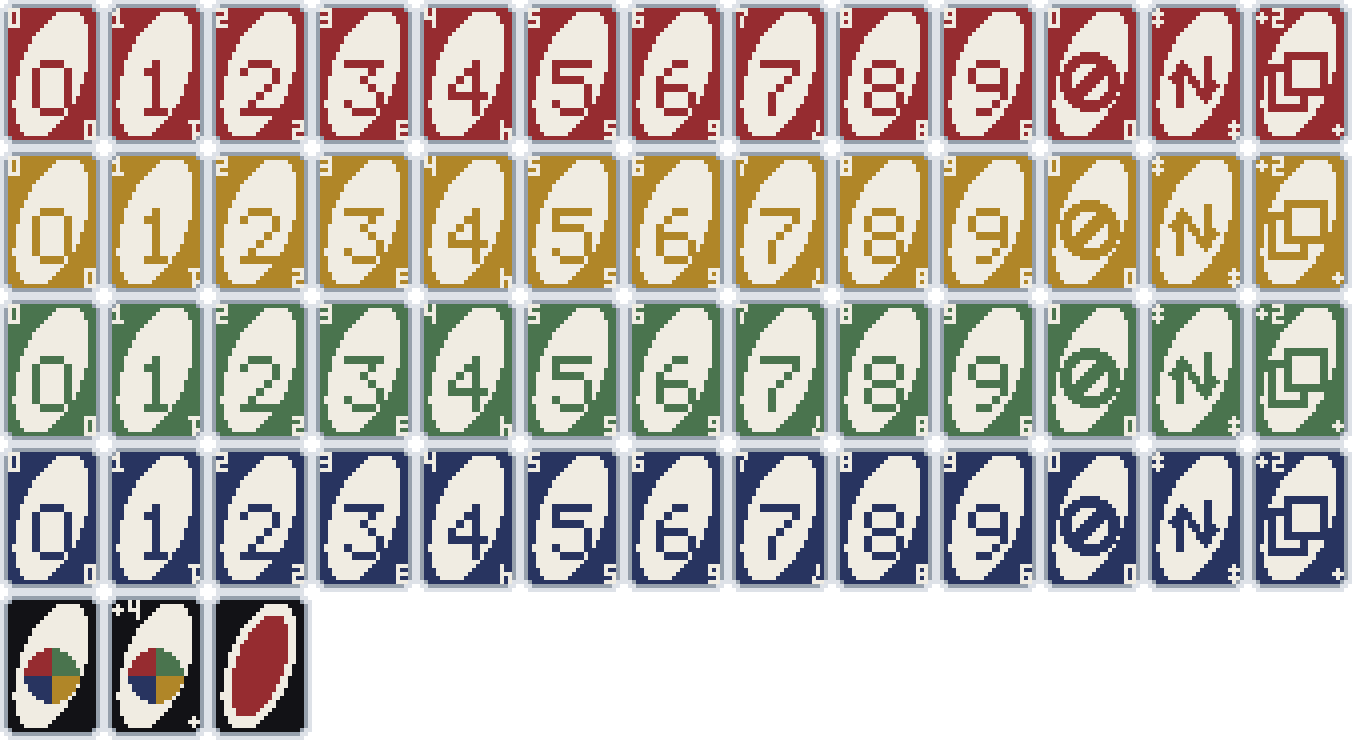
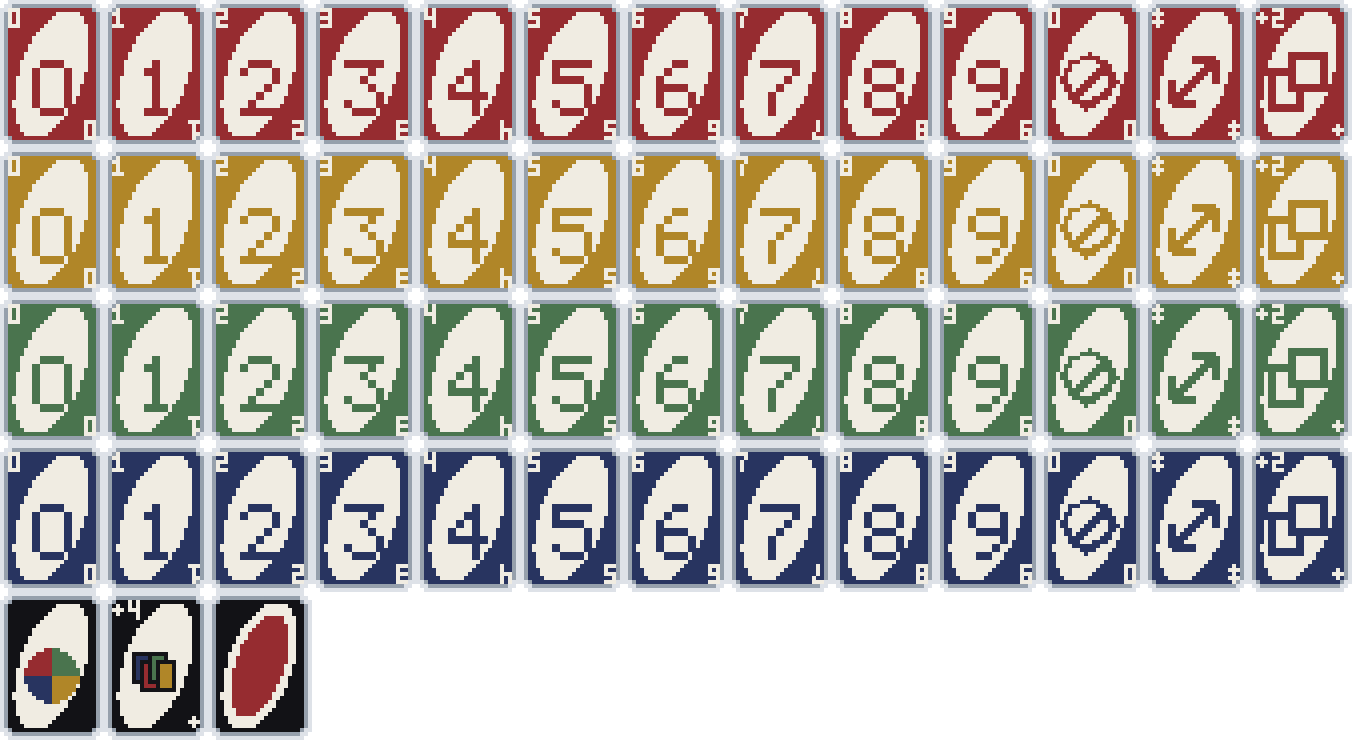
Take the symbols from the reference properly
The legend along the bottom of the reference sheet is the part of it that
was worth reading, and three of the symbols were wrong against it.

Skip is an octagon rather than a circle - it is a stop sign, and at this
size the flat top edge is most of what separates the two. Reverse is one
arrow with a head at each end instead of two side by side, which is the
honest fix for the thing that was reading as a letter N. And the Wild
Draw Four is four little cards fanned out rather than another quartered
circle, so it no longer looks like the plain Wild with a number on it.

diff --git a/scripts/build-uno-sheet.py b/scripts/build-uno-sheet.py
@@ -125,24 +125,37 @@ def symbol_mask(kind):
     d = ImageDraw.Draw(m)
 
     if kind == "skip":
-        d.ellipse([0, 0, SYM - 1, SYM - 1], outline=255, width=3)
-        d.line([3, SYM - 4, SYM - 4, 3], fill=255, width=3)
+        # An octagon, not a circle: it is a stop sign, and at this size the
+        # flat top edge is most of what tells the two apart.
+        d.regular_polygon(
+            (SYM // 2, SYM // 2, SYM // 2), n_sides=8, rotation=22, outline=255, width=2
+        )
+        d.line([3, SYM - 4, SYM - 4, 3], fill=255, width=2)
     elif kind == "reverse":
-        # Two arrows side by side heading opposite ways. Drawn apart rather
-        # than rotated about the centre: overlapped in the middle they stop
-        # being two arrows and start being a letter N.
-        d.line([4, SYM - 2, 4, 4], fill=255, width=2)
-        d.line([4, 3, 1, 7], fill=255, width=2)
-        d.line([4, 3, 7, 7], fill=255, width=2)
-
-        d.line([SYM - 5, 1, SYM - 5, SYM - 5], fill=255, width=2)
-        d.line([SYM - 5, SYM - 4, SYM - 8, SYM - 8], fill=255, width=2)
-        d.line([SYM - 5, SYM - 4, SYM - 2, SYM - 8], fill=255, width=2)
+        # One arrow with a head at each end, on the diagonal. Two separate
+        # arrows side by side read as the letter N at this size, which is what
+        # the first attempt at this drew.
+        d.line([2, SYM - 3, SYM - 3, 2], fill=255, width=2)
+        d.line([SYM - 3, 2, SYM - 8, 2], fill=255, width=2)
+        d.line([SYM - 3, 2, SYM - 3, 7], fill=255, width=2)
+        d.line([2, SYM - 3, 7, SYM - 3], fill=255, width=2)
+        d.line([2, SYM - 3, 2, SYM - 8], fill=255, width=2)
     elif kind == "draw2":
-        # Two cards, one behind the other.
-        d.rectangle([0, 3, SYM - 6, SYM - 1], outline=255, width=2)
-        d.rectangle([4, 0, SYM - 1, SYM - 5], fill=0, outline=255, width=2)
+        # Two cards, one behind the other and offset the way the reference
+        # stacks them.
+        d.rectangle([0, 4, SYM - 7, SYM - 1], outline=255, width=2)
+        d.rectangle([5, 0, SYM - 1, SYM - 6], fill=0, outline=255, width=2)
     return m
+
+
+def mini_cards(im, ox, oy):
+    """Four little cards fanned out, for the Wild Draw Four."""
+    d = ImageDraw.Draw(im)
+    order = ["blue", "red", "green", "yellow"]
+    for n, name in enumerate(order):
+        x = ox + n * 2
+        y = oy + (n % 2) * 2
+        d.rectangle([x, y, x + 4, y + 7], fill=BODY[name], outline=(20, 20, 24, 255))
 
 
 def blit(im, mask, ox, oy, colour):
@@ -191,7 +204,12 @@ def build_face(colour, face):
 def build_wild(four):
     im = card_base(WILD_BODY)
     oval(im, WILD_BODY)
-    quarters(im, (W - 13) // 2, 14, 13)
+    # The plain Wild is the four colours in a circle; the Draw Four is four
+    # cards, which is what the reference draws and what the card means.
+    if four:
+        mini_cards(im, (W - 12) // 2, 15)
+    else:
+        quarters(im, (W - 13) // 2, 14, 13)
     px = im.load()
     if four:
         corners(px, SMALL["+"], SMALL["4"])
